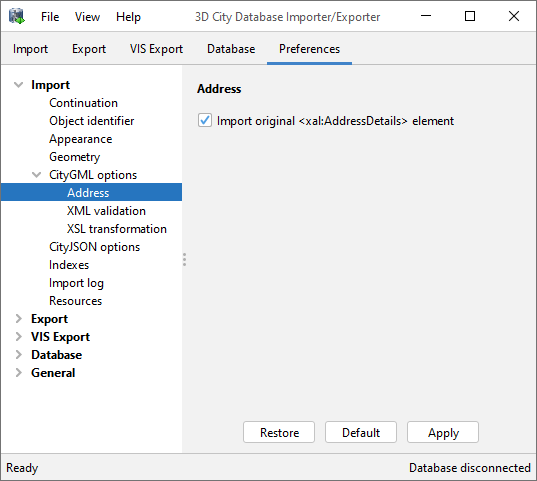
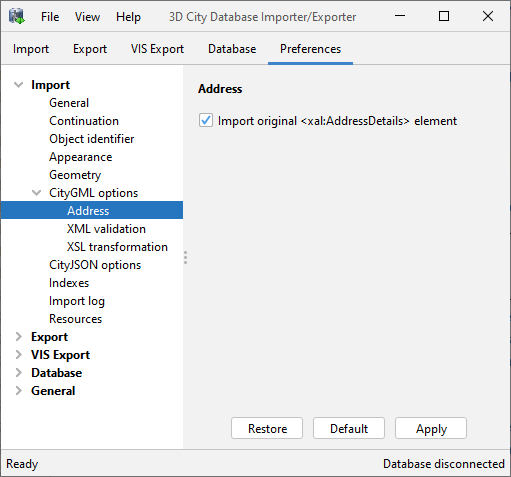
added general import preferences

diff --git a/source/impexp/import-preferences/general.rst b/source/impexp/import-preferences/general.rst
@@ -1,0 +1,24 @@
+.. _impexp_preferences_import_general:
+
+General
+^^^^^^^
+
+This preferences dialog lets you define general settings affecting
+the import operation.
+
+.. figure:: /media/impexp_import_preferences_general_fig.png
+   :name: impexp_import_preferences_general_fig
+   :align: center
+
+   Import preferences – General.
+
+When importing a CityGML/CityJSON dataset, the import operation might run into errors, for instance, because of
+invalid data violating the CityGML or CityJSON schemas, missing external resources such as texture images
+or invalid geometries. The default behaviour of the import operation is to *fail fast* on errors and to immediately
+cancel the import process. This way, invalid top-level city objects will not be imported into your
+database. If your import aborts due to errors, you can use the import log to resume or rollback the import operation
+(see :numref:`impexp_import_preferences_import_log` for more details).
+
+You can disable the fail fast behaviour by unchecking the *Cancel import immediately in case of errors* option
+offered by this preferences dialog. When doing so, errors encountered during the import process are still recorded
+in the log but the operation tries to continue and complete the import.

diff --git a/source/impexp/import.rst b/source/impexp/import.rst
@@ -133,6 +133,8 @@ The following table provides a summary overview.
 
    * - | **Preference name**
      - | **Description**
+   * - | :ref:`impexp_preferences_import_general`
+     - | General options like behaviour in error situations to be used for imports.
    * - | :ref:`impexp_import_preference_continuation`
      - | Metadata that is stored for every object in the database such as the data lineage, the updating person or the creationDate property.
    * - | :ref:`impexp_import_preferences_identifier`

diff --git a/source/impexp/import-preferences/index.rst b/source/impexp/import-preferences/index.rst
@@ -9,6 +9,7 @@ preference settings that are presented in this chapter.
 .. toctree::
    :maxdepth: 1
 
+   general
    continuation
    object-identifier
    appearance
